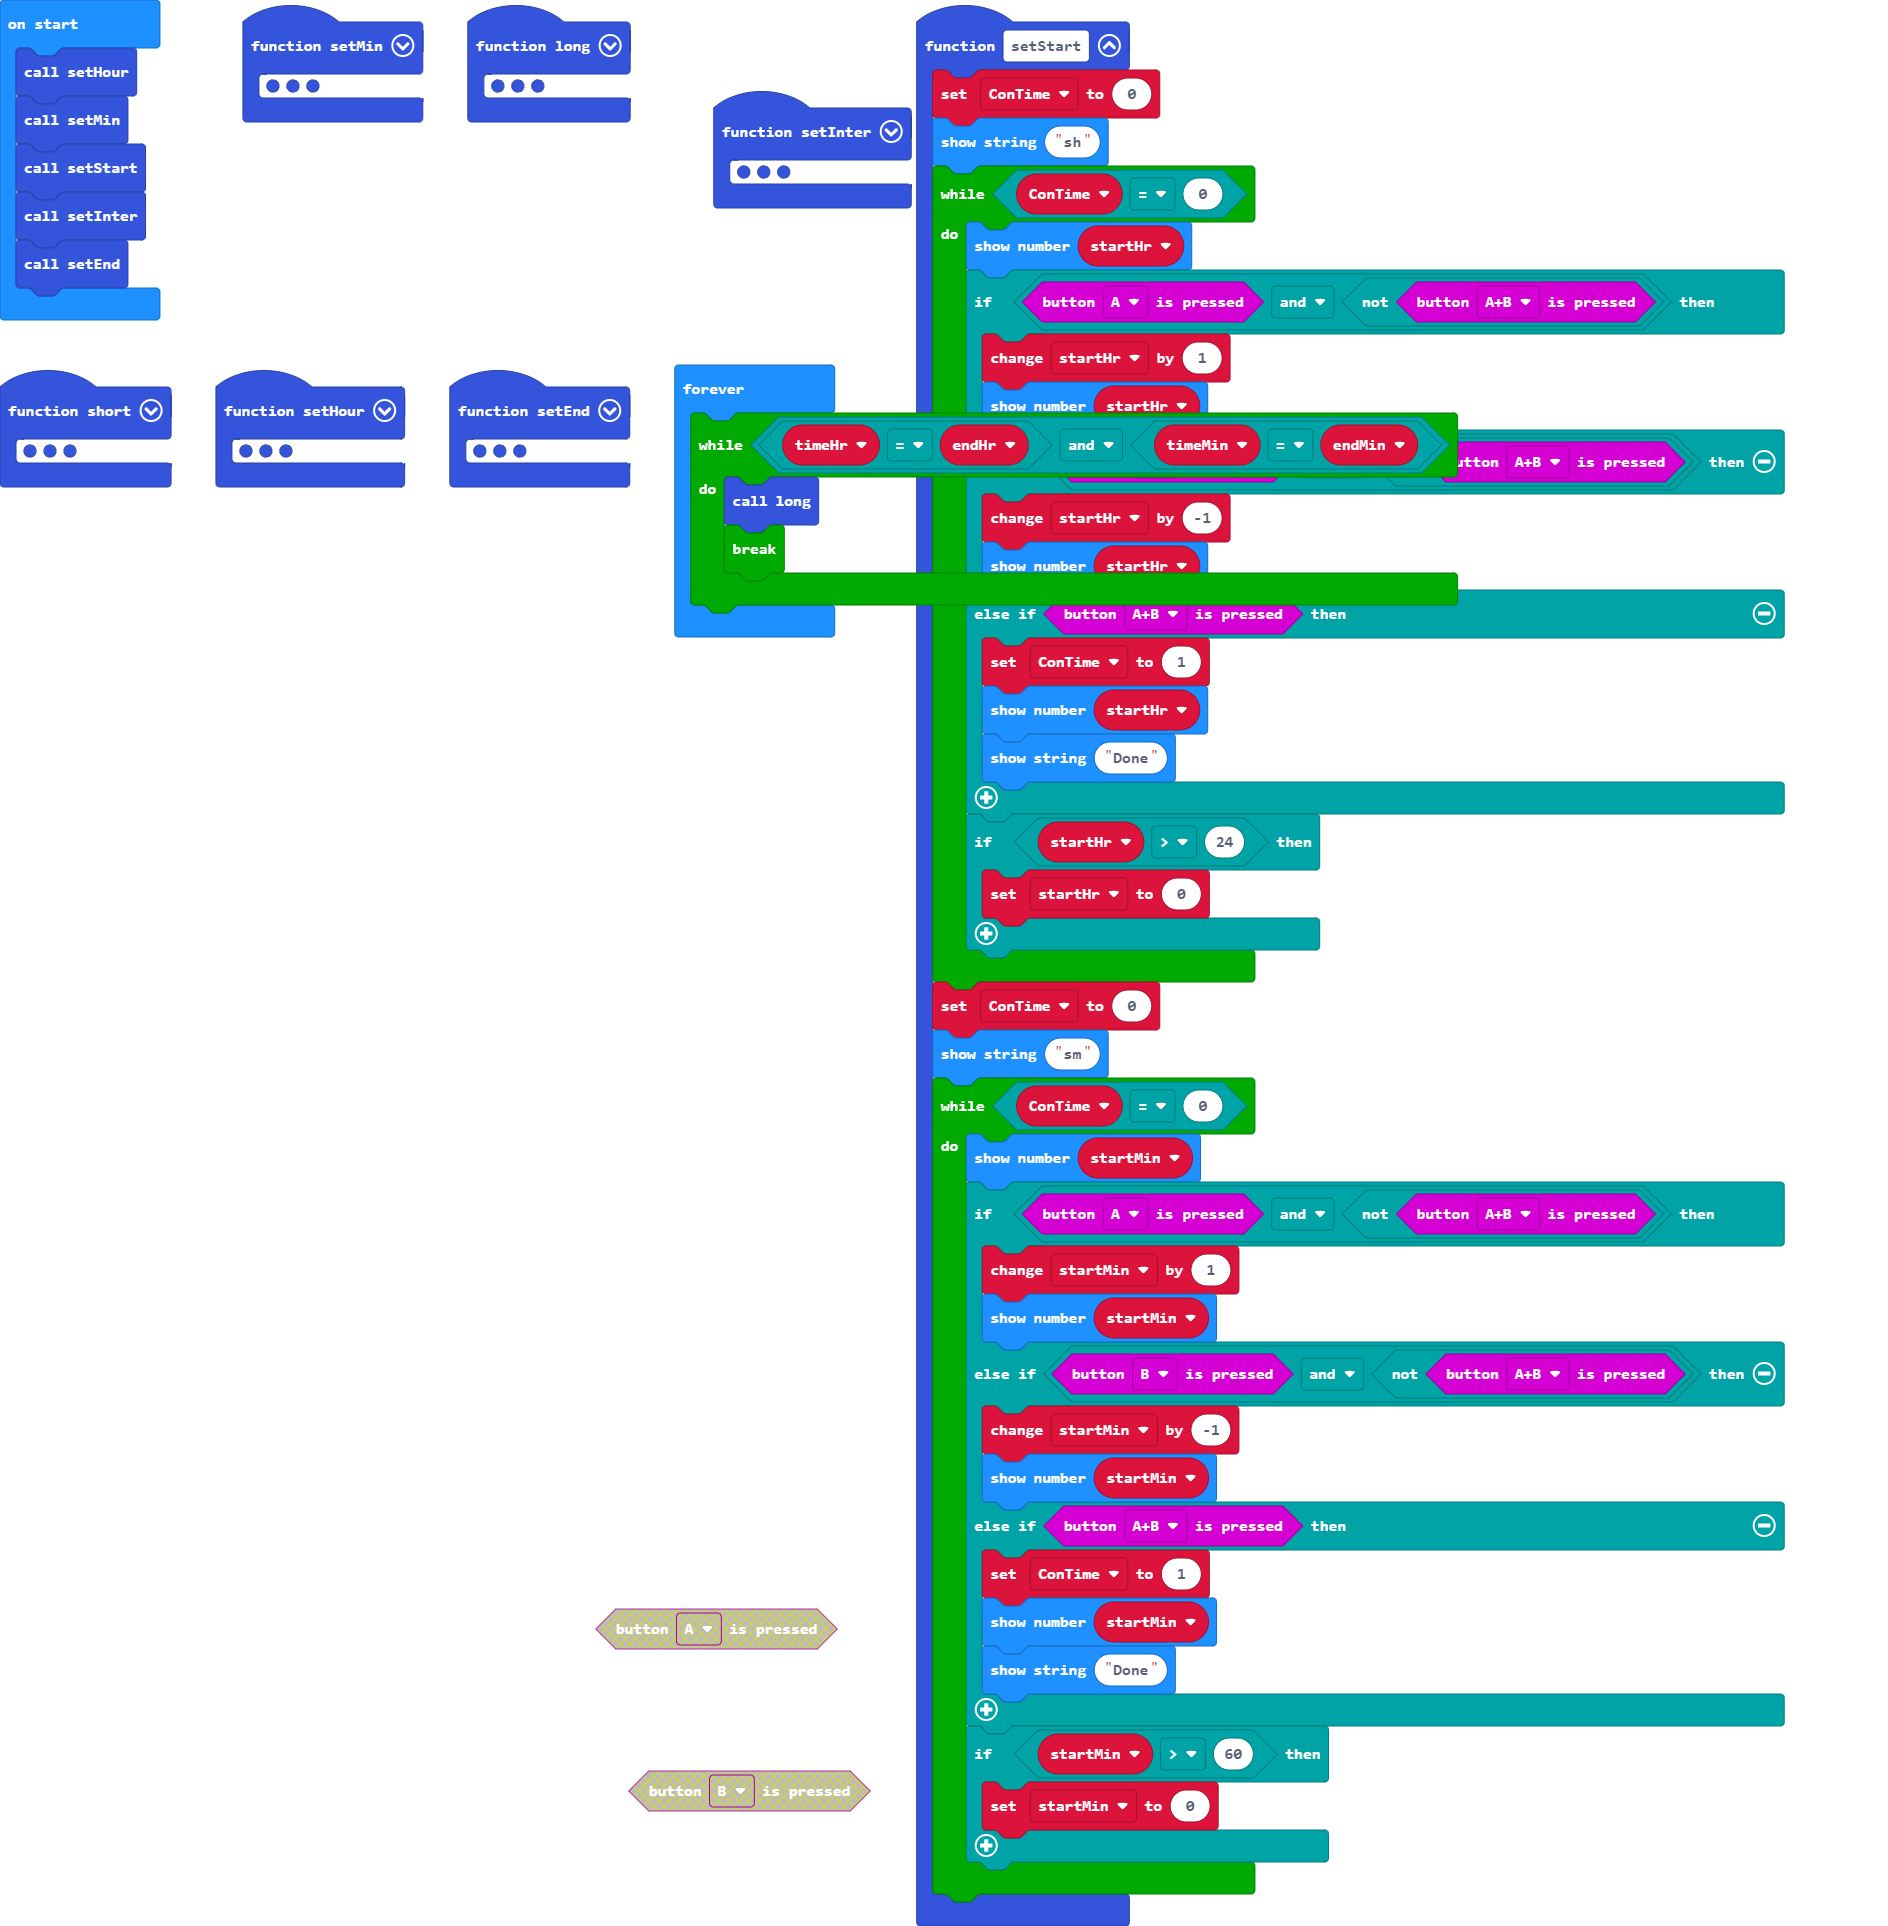
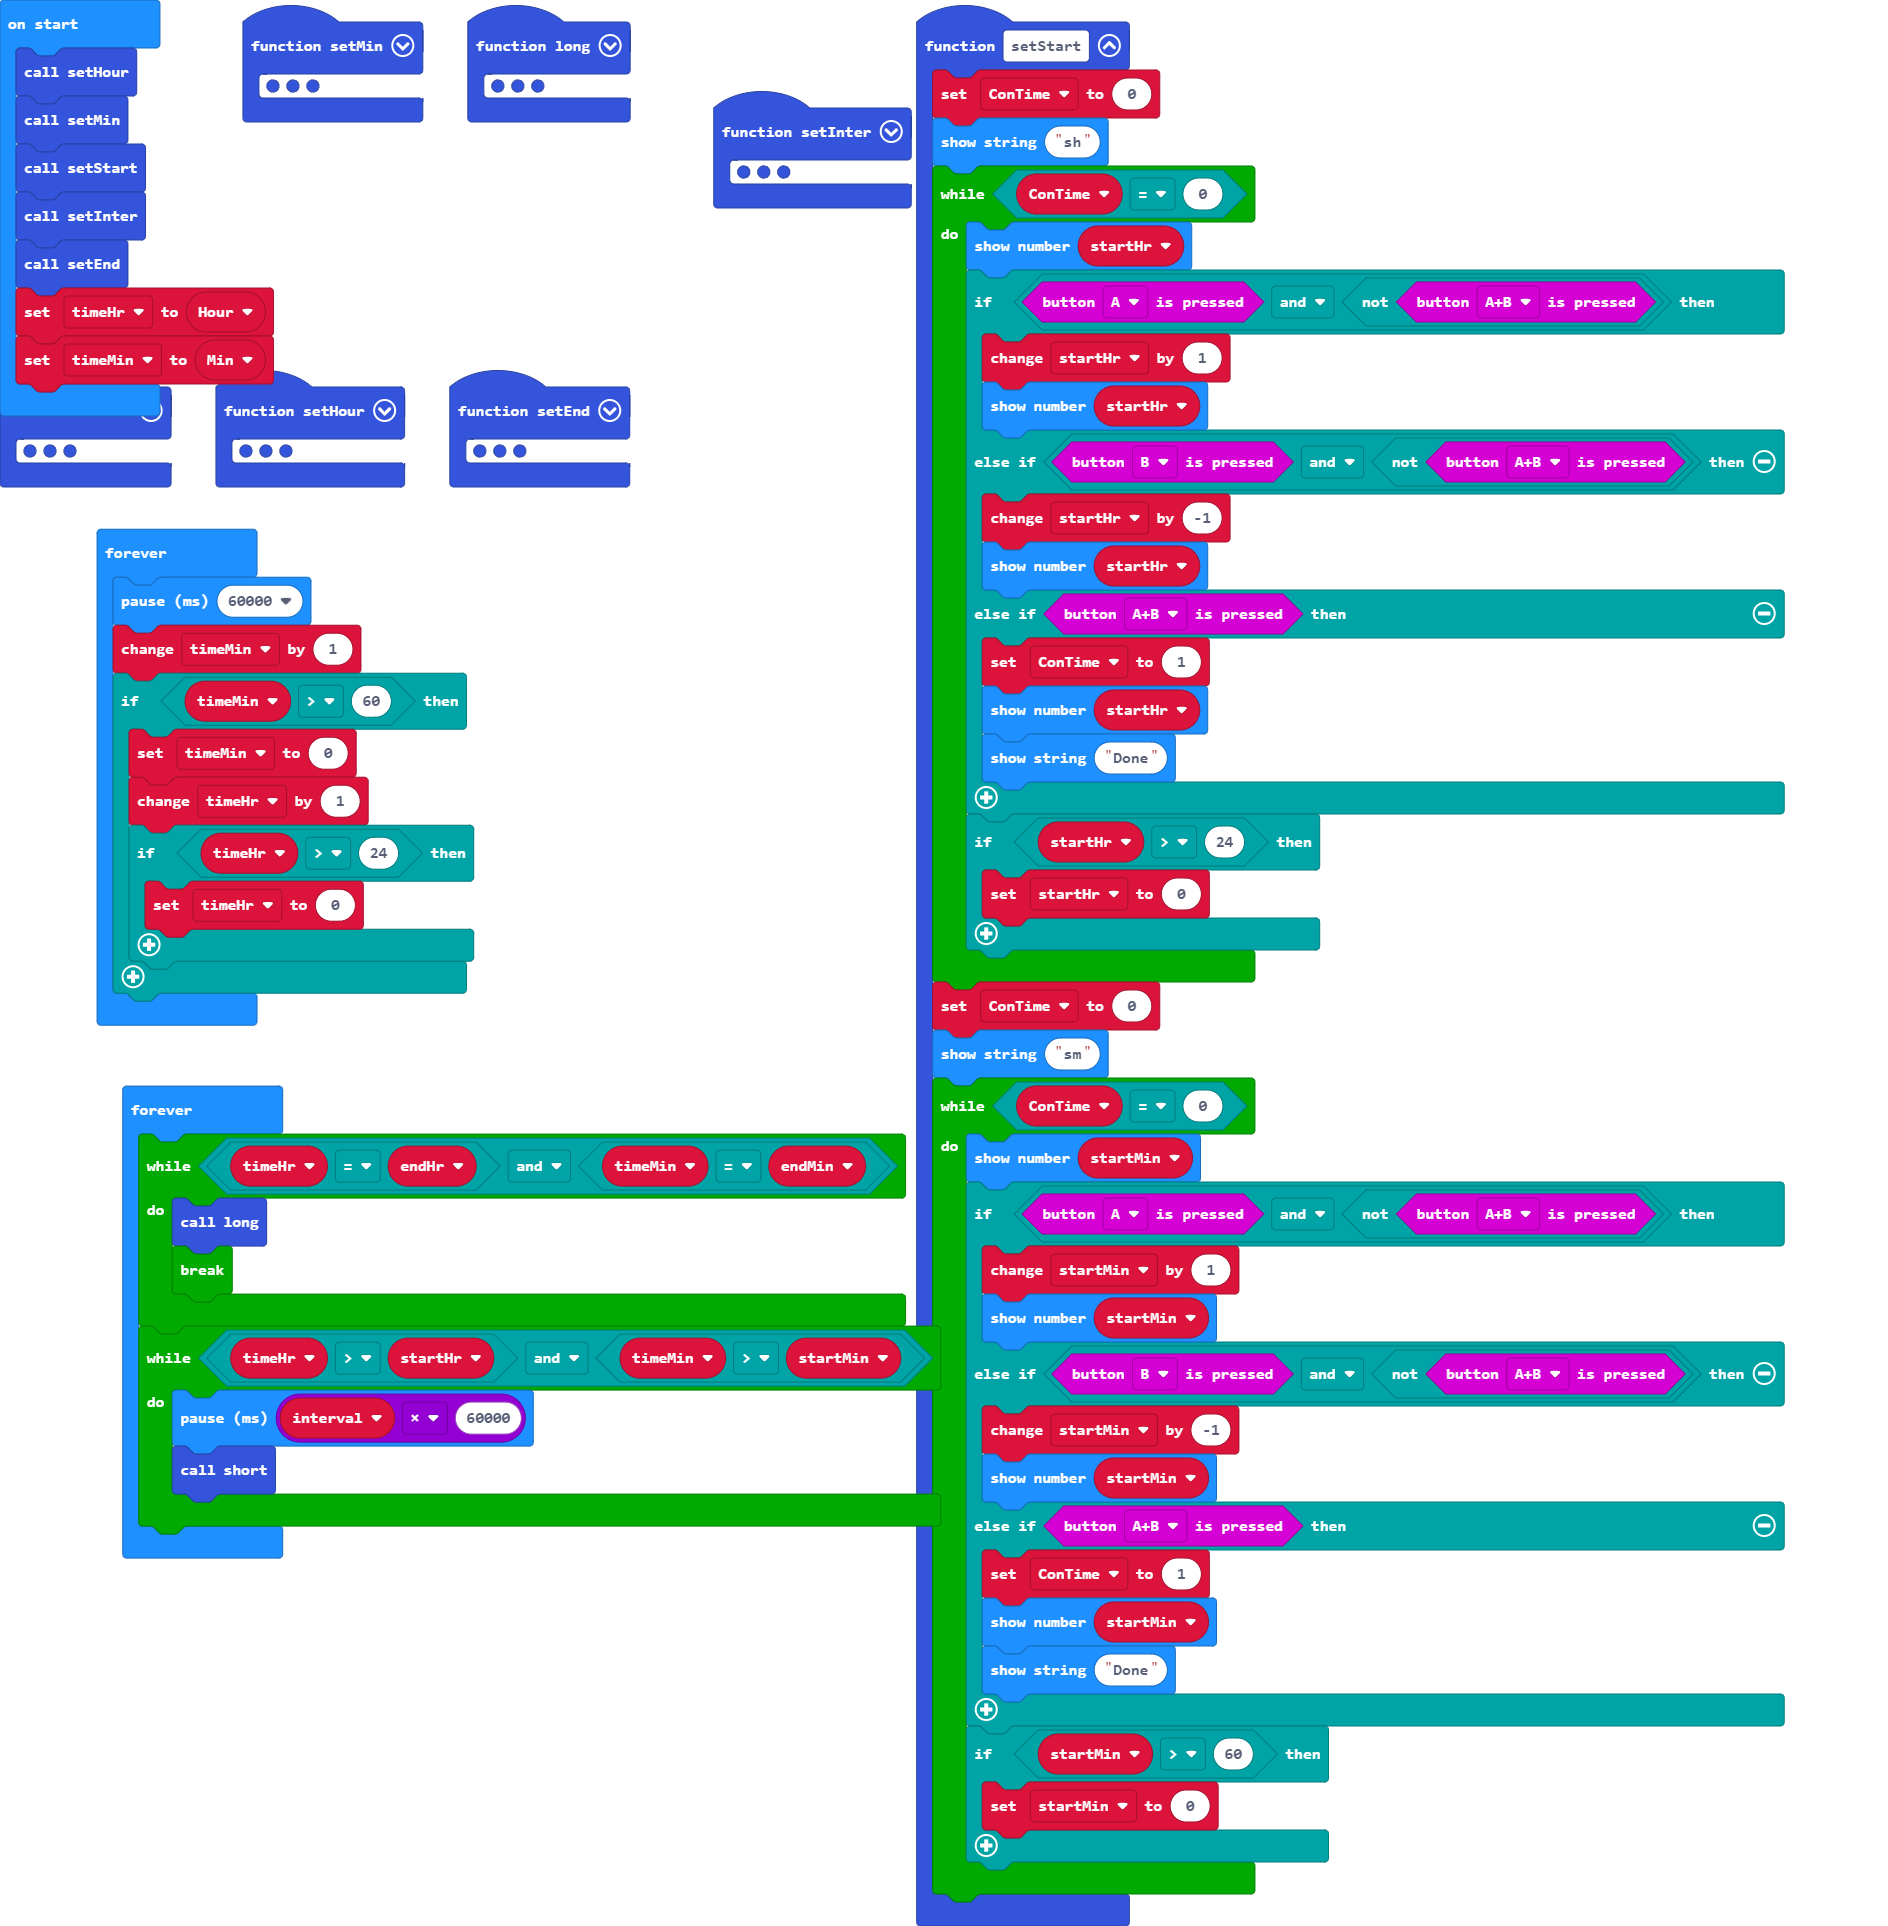
i thinks its done

diff --git a/main.ts b/main.ts
@@ -154,21 +154,36 @@ function setInter () {
 let interval = 0
 let startMin = 0
 let startHr = 0
-let Hour = 0
-let Min = 0
 let endMin = 0
 let endHr = 0
 let ConTime = 0
+let Min = 0
+let Hour = 0
 setHour()
 setMin()
 setStart()
 setInter()
 setEnd()
+let timeHr = Hour
+let timeMin = Min
 basic.forever(function () {
-    let timeMin = 0
-    let timeHr = 0
+    basic.pause(60000)
+    timeMin += 1
+    if (timeMin > 60) {
+        timeMin = 0
+        timeHr += 1
+        if (timeHr > 24) {
+            timeHr = 0
+        }
+    }
+})
+basic.forever(function () {
     while (timeHr == endHr && timeMin == endMin) {
         long()
         break;
+    }
+    while (timeHr > startHr && timeMin > startMin) {
+        basic.pause(interval * 60000)
+        short()
     }
 })
